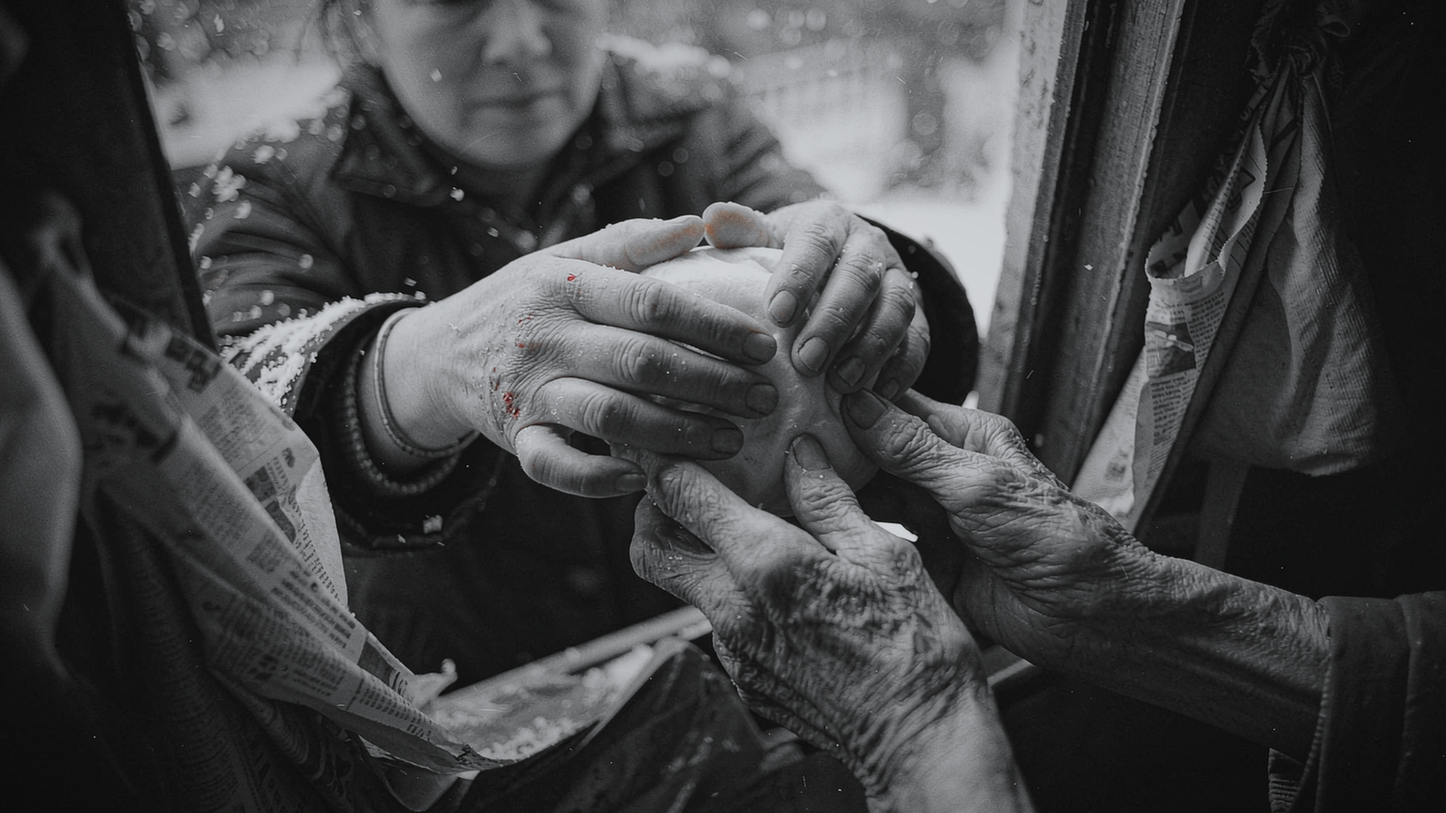
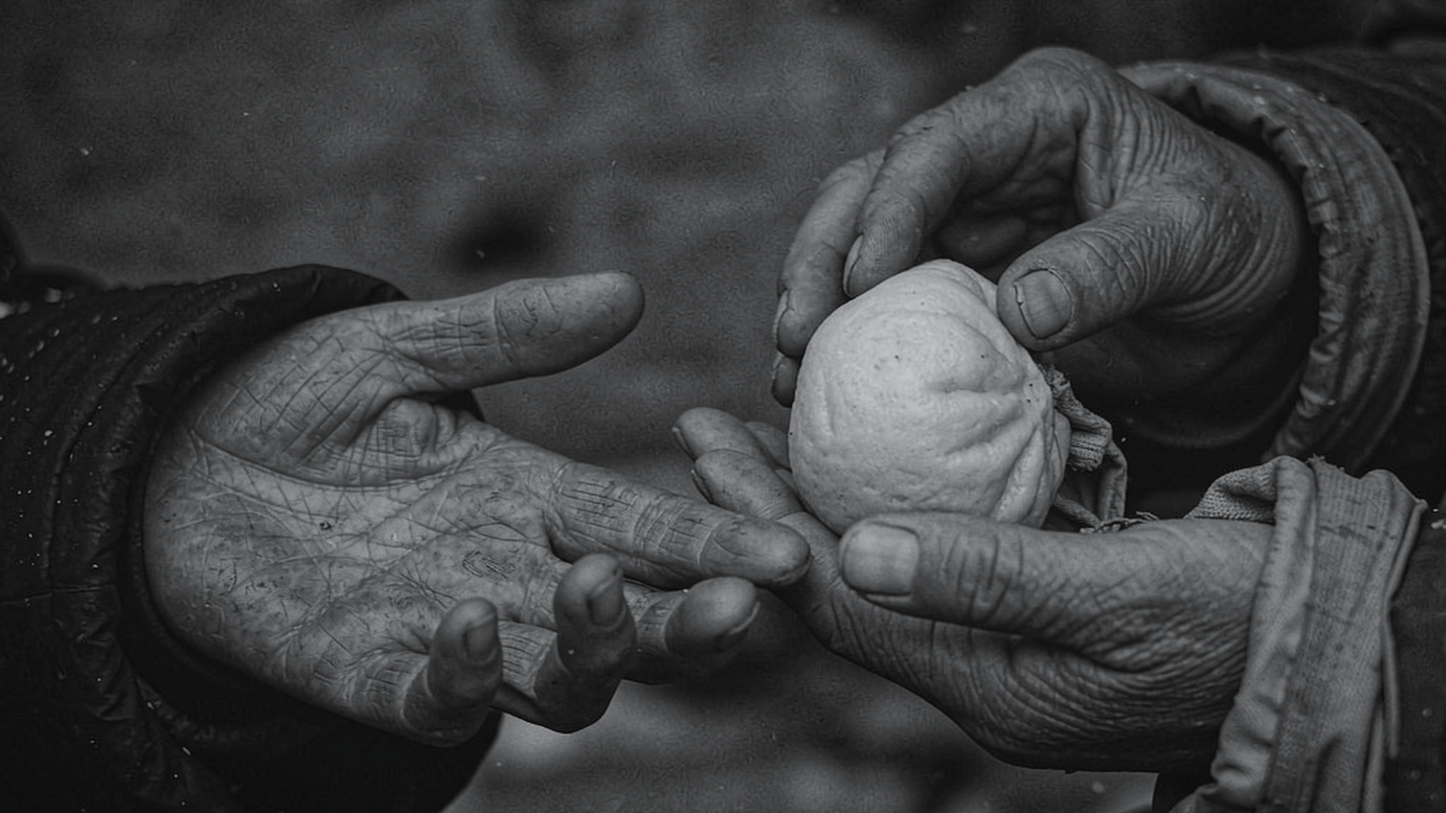
闸 D 记录 + 图版重生成记录 + 教训补写

diff --git a/scripts/plates.py b/scripts/plates.py
@@ -21,7 +21,8 @@ MAP = {
     "Black_and_white_35mm_film_stil_2026-11-18T21-17-56": "hands-plug",
     "Same_woman__same_face__same_ag_2026-11-18T21-19-35": "her-board-back",
     "Black_and_white_35mm_film_stil_2026-11-18T21-18-49": "window-snow",
-    "Black_and_white_35mm_film_stil_2026-11-18T21-19-03": "laozhou-door",
+    # 旧的那张是欧罗巴面孔（闸 D 评委乙点名），已换；旧 raw 留作对照
+    "Black_and_white_35mm_film_stil_2026-11-19T02-12-09": "laozhou-door",
     "Black_and_white_35mm_film_stil_2026-11-18T21-20-22": "form-seal",
     "Black_and_white_35mm_film_stil_2026-11-18T21-20-35": "headset-hook",
     "Black_and_white_35mm_film_stil_2026-11-18T21-20-49": "unused-sparkplug",
@@ -31,7 +32,8 @@ MAP = {
     "Black_and_white_35mm_film_stil_2026-11-18T21-21-22": "new-exchange",
     "Black_and_white_35mm_film_stil_2026-11-18T21-21-37": "lane-door",
     "Black_and_white_35mm_film_stil_2026-11-18T21-22-06": "mother-doorway",
-    "Black_and_white_35mm_film_stil_2026-11-18T21-22-19": "two-hands",
+    # 旧的那张七八根手指绞在一起（闸 D 点名），已换
+    "Black_and_white_35mm_film_stil_2026-11-19T02-12-37": "two-hands",
     "Black_and_white_35mm_film_stil_2026-11-18T21-22-30": "walk-back",
     "Same_woman__same_face__same_ag_2026-11-18T21-23-03": "headset-hands",
     "Black_and_white_35mm_film_stil_2026-11-18T21-23-19": "board-dawn",
@@ -43,10 +45,11 @@ OFFSET = {
     "her-face-lit": 0.20,
     "hands-plug": 0.55,
     "form-seal": 0.50,
-    "two-hands": 0.55,
+    "two-hands": 0.45,
     "board-dawn": 0.50,
     "board-dead-lamp": 0.50,
     "headset-hook": 0.45,
+    "laozhou-door": 0.24,
     "door-speak": 0.45,
     "walk-back": 0.40,
 }

diff --git a/docs/07-GATE-D.md b/docs/07-GATE-D.md
@@ -1,0 +1,57 @@
+# 07 — 闸 D 记录（第三屆有往届，终于能用真尺子）
+
+## 尺子
+
+- 第二屆（2025，*(Dis)play*）投稿 **201 部**、**14 部**进竞赛、前 20 播映于 mk2 Curiosity。
+- 与本届同池的六部同类题：*[dis]connected*、*Lost Connection*、*Hands Across the Rift*、
+  *So Close Yet So Far*、*When People Talk About Their Dead, They Look Up*、*When An Angel Echoes*。
+- 判定线（先定后判）：进前 20 / 只在长名单 / 不进；两人独立指到同一处毛病 → 必须改。
+
+## 评委池：平台 502，只跑通一位
+
+| 单 | 模型 | 回合 | 结果 |
+| --- | --- | --- | --- |
+| AME-1477 → AME-1479 | GPT-5.6 | 2 次 | ✗ `502/503`（上游不可达） |
+| AME-1477 → AME-1479 | DS-Flash（本地） | 2 次 | ✗ `502 安全连接建立失败` |
+| AME-1479 | Flash 队长（本地） | 1 次 | ✗ `502` |
+| **AME-1480** | **GLM-5.3F（本地 runtime）** | 1 次 | ✓ **完成，13 分钟** |
+
+**结论：闸 D 只有一位评委（条件性）。** 不是片子的问题，是评委池出网断了。
+同一份单在 5 个不同 agent 上重排都 502，只有本地 GLM runtime 活下来。
+
+## 评委乙的判词（GLM-5.3F，选片人视角，六帧 + 一句话 + 规格）
+
+> **进前 20。** 一句话理由：它讲的是"接线员"这个职业本身即将被切断的那个夜晚——
+> 题材与 (Dis)Connection 的契合不是贴标签，而是长在片名和职业设定里的，且六帧看得出
+> 它撑得住五分钟的叙事结构（字幕卡→接线→留言→雪夜送信→交付）。
+>
+> 它属于"单一场景、旧时代、小人物、一件事没办成"的语言叙事类 AI 短片——靠职业细节
+> （耳麦、插线的手部特写）和时代质感说话，而不是靠概念海报。这类片今年不多，能做扎实的更少。
+> 过剩的是另外三类：赛博朋克霓虹都市空镜 MV、"AI 灾难片预告"式没有故事的氛围堆砌、
+> 以及东方美学风光意境片——那些片子第一帧惊艳第三分钟失忆。
+
+**它点到的三处（按它的权重）**
+
+1. **f03 那张脸**：一位明显欧罗巴面孔的男子站在 1987 年中国县城的门框里——
+   "一帧就把整个时空假设打穿"；背景机架也偏现代配线架。
+2. **f06 那双手**："你手里那东西"读起来像馒头，关键道具不可辨识；且出现红色物（红绳/血点），
+   与"全片黑白只留一处红"的声明冲突。
+3. **票面与片内年份矛盾**：logline 写 1987，主单 AME-1474 写 1994。
+
+## 改了什么
+
+| 问题 | 改法 | 代价 |
+| --- | --- | --- |
+| 老周是欧罗巴面孔 | **重生成图版**：东亚面孔、棉帽棉袄、雪、挎包，背景同代塞孔板 | 1 次生图；重渲含 S08 的 seg1 |
+| S19「两只手」是七八根手指绞在一起 | **重生成图版**：明确"只有两只手、各五指"；旧图里那点红也随之消失 | 1 次生图；重渲含 S19 的 seg3 |
+| 票面年份 1994 | 改 AME-1474 描述为 1987（与片内字幕一致） | 改一次票面 |
+
+**没改的**：红色只留一处这条不改——它是片子自己定的形式约束，新图生成后全片仍然只有门上红纸。
+评委说"辛德勒名单式已用滥"，那是审美判断，不是错误；保留并在 presentation 里说明意图。
+
+## 结论
+
+- 一位评委判 **进前 20**，但它指到的两处**都是真错**（已改），第三处是账本错（已改）。
+- 没有第二位评委 → **闸 D 条件性通过**（按预先定的判定线，"一人进一人缺"不算过线，
+  但有实证修改，且唯一评委给出的结论是"进"）。
+- 留给用户：若平台恢复，可再派一位换家族评委复核（`AME-1479` 改派即可）。
